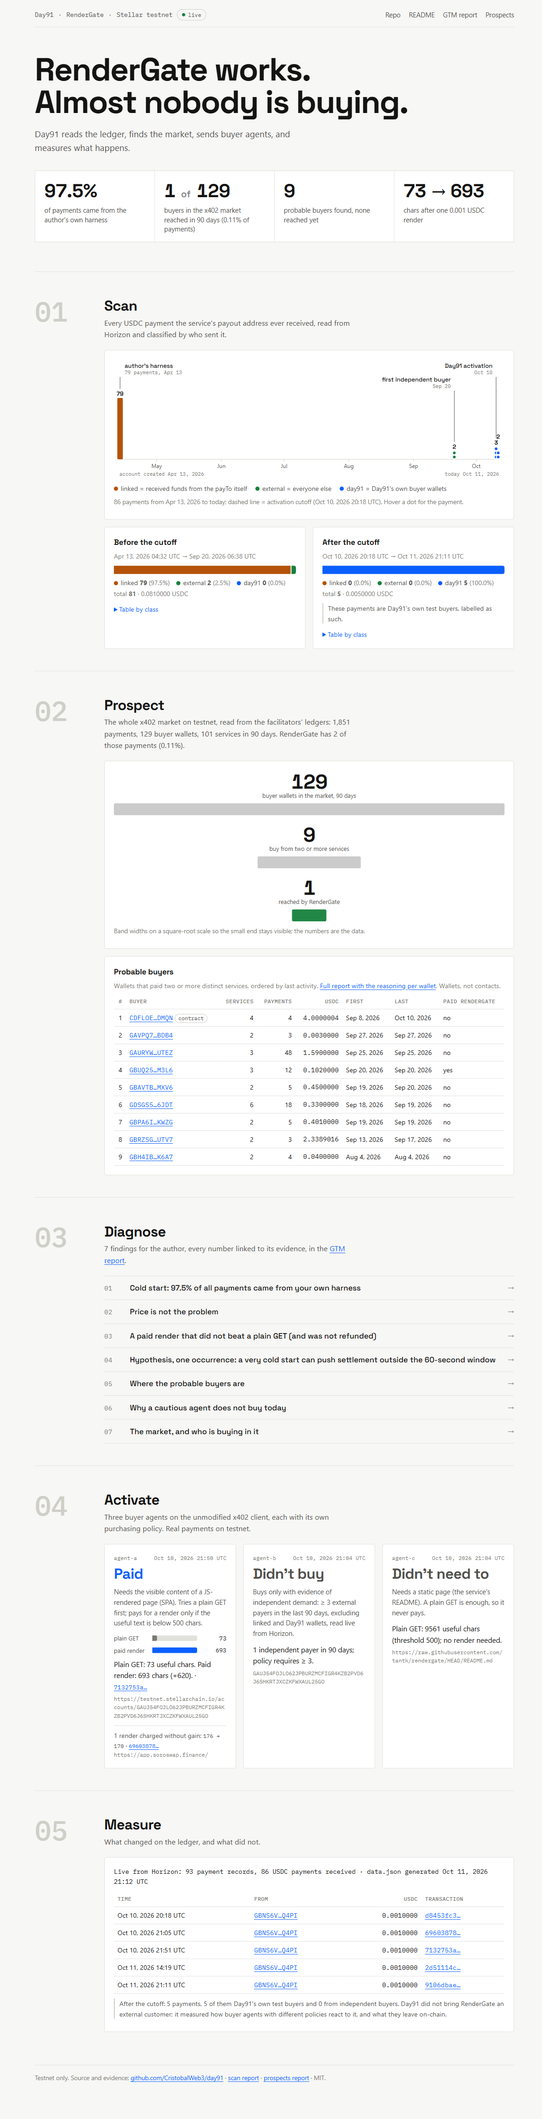
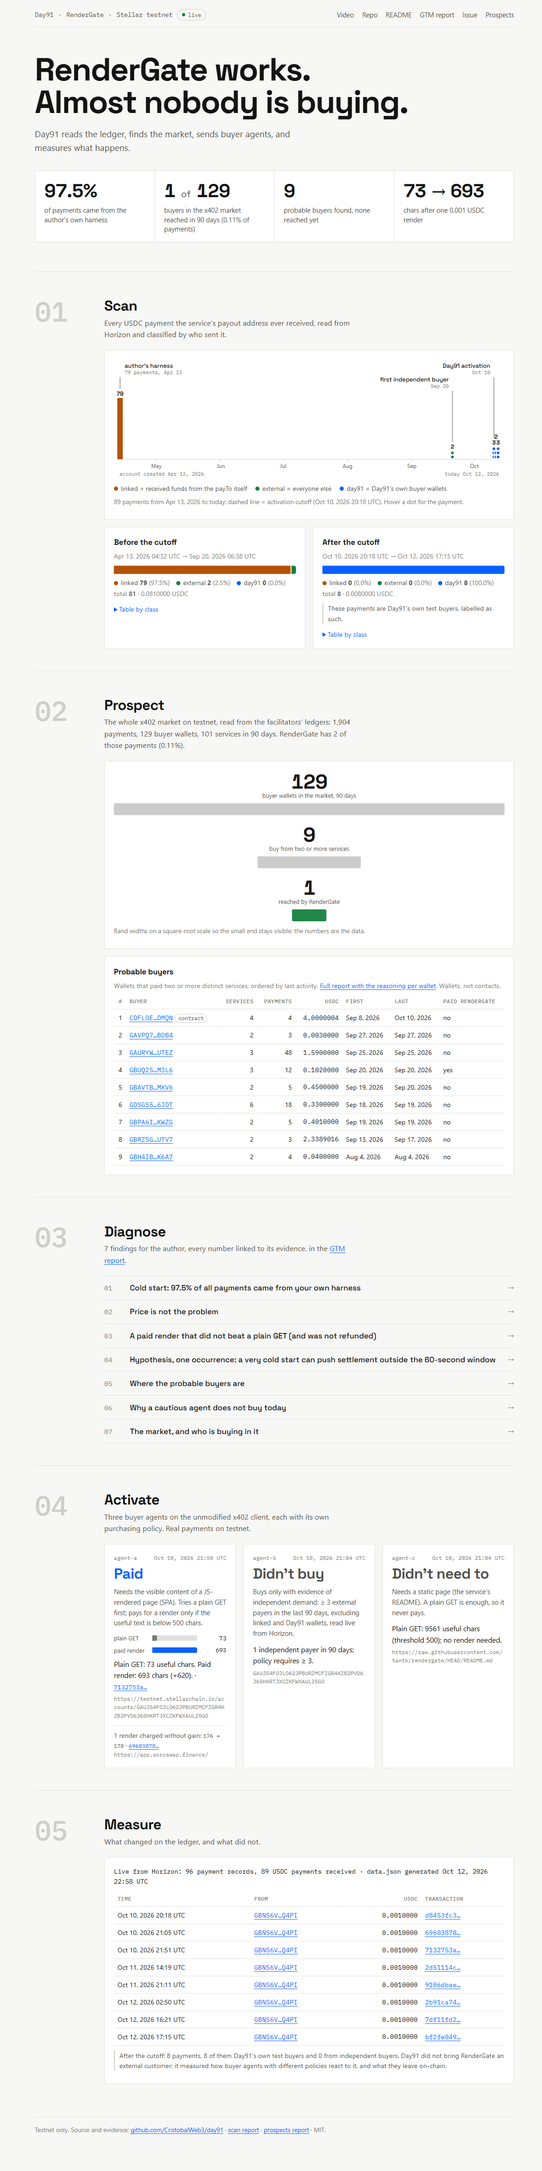
Revisión final: video e issue enlazados, cifras al 12-oct, agente A reproduce la demo por defecto
- README: video pitch e issue tantk/rendergate#2; tabla 8 pagos day91 después del corte;
  Limitations sin número ('all payments after the cutoff are Day91's own'); decisiones
  'earliest' según decisions.jsonl; las dos cuotas con su base (2 of 2,349 · 0.09% / 1 of 224;
  2 of 1,904 · 0.11% / 1 of 129); link directo a data/prospects-<payTo>.md; agent-a con
  Soroswap como argumento; tx de ensayos y video
- agent-a: URL por defecto = testnet.stellarchain.io/accounts/<payTo> (73 → 693)
- funnel-data/index.html: Video e Issue en el menú; data.json y capturas regeneradas
- reporte GTM y submission (1 44x chars, video + issue) con el mercado al 12-oct
- data/: scan y prospects regenerados; paid-calls.jsonl completado desde Horizon con
  las 2 llamadas de agent-a que paidGet no alcanzó a confirmar (hashSource horizon-backfill)
- CLAUDE.md: Estado (8 pagos, mercado 2 349 / 1 904, entregables publicados)

diff --git a/docs/index.html b/docs/index.html
@@ -487,7 +487,7 @@
     const data = await (await fetch("data.json", { cache: "no-store" })).json();
     const payTo = data.service.payTo;
     $("svc-name").textContent = data.service.name;
-    $("nav").innerHTML = [["Repo", data.links.repo], ["README", data.links.readme], ["GTM report", data.links.report], ["Prospects", data.links.prospectsMd]].map(([t, h]) => ext(h, t)).join("");
+    $("nav").innerHTML = [["Video", data.links.video], ["Repo", data.links.repo], ["README", data.links.readme], ["GTM report", data.links.report], ["Issue", data.links.issue], ["Prospects", data.links.prospectsMd]].filter(([, h]) => h).map(([t, h]) => ext(h, t)).join("");
     { const i = data.headline.indexOf(". "); $("headline").innerHTML = i > 0 ? `${esc(data.headline.slice(0, i + 1))}<br>${esc(data.headline.slice(i + 2))}` : esc(data.headline); }
     $("subline").textContent = data.subline;
 

diff --git a/src/buyers/agent-a.ts b/src/buyers/agent-a.ts
@@ -8,7 +8,9 @@ import { paidGet } from "../x402/paid-get.js";
 import { MIN_USEFUL_CHARS, appendDecision, plainGet, renderEndpoint, usefulText } from "./common.js";
 
 const AGENT = "agent-a";
-const target = process.argv[2] ?? "https://app.soroswap.finance/";
+// Por defecto, la página del payTo de RenderGate en un explorador client-rendered (73 → 693 chars en la demo).
+// Pasar https://app.soroswap.finance/ como argumento reproduce el caso de render cobrado sin aporte (176 → 170).
+const target = process.argv[2] ?? "https://testnet.stellarchain.io/accounts/GAUJ54FOJLO62JPBURZMCFIGR4KZB2PVD6J6SHKRTJXCZKFWXAUL25GO";
 const task = "Extract the visible content of a SPA (tokens, pools, navigation) for a downstream task";
 
 async function main() {

diff --git a/scripts/funnel-data.ts b/scripts/funnel-data.ts
@@ -131,6 +131,8 @@ const data = {
     report: `${REPO}/blob/main/reasoning/rendergate-gtm.md`,
     prospectsMd: `${REPO}/blob/main/data/prospects-${payTo}.md`,
     scanMd: `${REPO}/blob/main/data/scan-${payTo}.md`,
+    video: "https://youtu.be/pcEAPKgzaTQ",
+    issue: "https://github.com/tantk/rendergate/issues/2",
   },
   headline: `${activation.service ?? "RenderGate"} works. Almost nobody is buying.`,
   subline: "Day91 reads the ledger, finds the market, sends buyer agents, and measures what happens.",

diff --git a/data/prospects-GAUJ54FOJLO62JPBURZMCFIGR4KZB2PVD6J6SHKRTJXCZKFWXAUL25GO.md b/data/prospects-GAUJ54FOJLO62JPBURZMCFIGR4KZB2PVD6J6SHKRTJXCZKFWXAUL25GO.md
@@ -1,29 +1,29 @@
 # Day91 prospects: RenderGate (payTo)
 
-- payTo: `GAUJ54FOJLO62JPBURZMCFIGR4KZB2PVD6J6SHKRTJXCZKFWXAUL25GO` · window: last 90 days (since 2026-07-13T16:33:17Z) · generated 2026-10-11T16:33:17.006Z
+- payTo: `GAUJ54FOJLO62JPBURZMCFIGR4KZB2PVD6J6SHKRTJXCZKFWXAUL25GO` · window: last 90 days (since 2026-07-14T22:44:33Z) · generated 2026-10-12T22:44:33.349Z
 - Source: /payments of 3 known x402 facilitators on Horizon testnet (a facilitator submits the payment on the buyer's behalf, so its history is the sales ledger of every service that uses it).
-- Removed before counting: 0 zero-amount payments and 4 payments from Day91's own wallets (GBNS6V…Q4PI).
+- Removed before counting: 0 zero-amount payments and 8 payments from Day91's own wallets (GBNS6V…Q4PI).
 - Amounts in USDC, 7 decimals. Buyers are wallets, not people: one operator can run many wallets.
 
 ## Market
 
 |  | payments | buyers | services | USDC | buyers active last 14 d |
 | --- | ---: | ---: | ---: | ---: | ---: |
-| total | 2296 | 224 | 113 | 804.7632514 | 128 |
-| excluding likely test traffic | 1851 | 129 | 101 | 804.7587312 | 35 |
+| total | 2349 | 224 | 113 | 805.2122514 | 80 |
+| excluding likely test traffic | 1904 | 129 | 101 | 805.2077312 | 35 |
 
 Buyers seen on ≥ 2 facilitators: 4.
 
 | facilitator | records read | x402 payments | buyers | services | read time |
 | --- | ---: | ---: | ---: | ---: | ---: |
-| [GC6CSX…YN3K](https://stellar.expert/explorer/testnet/account/GC6CSXBV4C6RL3HEDTW57KXYXSSXKAWKGYDEOSATXM3XNKXSR2VRYN3K) (facilitator x402 (x402.org)) | 2324 | 1953 | 192 | 83 | 3.3 s |
-| [GCGKCI…NDYL](https://stellar.expert/explorer/testnet/account/GCGKCIJE7S22OLQUWURUIL7OFMTVJY77RDZIO6ZJADVFLRUMRW6MNDYL) (facilitator (twin A, 2025-12-22)) | 186 | 172 | 17 | 15 | 1.1 s |
-| [GA6QLQ…O67I](https://stellar.expert/explorer/testnet/account/GA6QLQOQFN36EV6NRIZAGMNA42MFG2XGCX23KYF6VE5DTBXPPS5RO67I) (facilitator (twin B, 2025-12-22)) | 187 | 175 | 21 | 19 | 1.1 s |
+| [GC6CSX…YN3K](https://stellar.expert/explorer/testnet/account/GC6CSXBV4C6RL3HEDTW57KXYXSSXKAWKGYDEOSATXM3XNKXSR2VRYN3K) (facilitator x402 (x402.org)) | 2378 | 2011 | 193 | 84 | 3.1 s |
+| [GCGKCI…NDYL](https://stellar.expert/explorer/testnet/account/GCGKCIJE7S22OLQUWURUIL7OFMTVJY77RDZIO6ZJADVFLRUMRW6MNDYL) (facilitator (twin A, 2025-12-22)) | 186 | 172 | 17 | 15 | 1.0 s |
+| [GA6QLQ…O67I](https://stellar.expert/explorer/testnet/account/GA6QLQOQFN36EV6NRIZAGMNA42MFG2XGCX23KYF6VE5DTBXPPS5RO67I) (facilitator (twin B, 2025-12-22)) | 186 | 174 | 20 | 18 | 1.0 s |
 
 ## Share of this payTo
 
-- Of the whole window: **2 of 2296 payments (0.09%)** and **1 of 224 buyers (0.45%)**, Day91's wallets excluded.
-- Outside likely test traffic: **2 of 1851 payments (0.11%)** and **1 of 129 buyers (0.78%)**.
+- Of the whole window: **2 of 2349 payments (0.09%)** and **1 of 224 buyers (0.45%)**, Day91's wallets excluded.
+- Outside likely test traffic: **2 of 1904 payments (0.11%)** and **1 of 129 buyers (0.78%)**.
 - Buyers of this payTo in the window: [GBUQ25…M3L6](https://stellar.expert/explorer/testnet/account/GBUQ25LH4BARXR4RAJZVA7QYVFTIRZD63YXYVAETETYGKMNZF5PKM3L6).
 
 ## Likely test traffic
@@ -57,7 +57,7 @@ Buyers seen on ≥ 2 facilitators: 4.
 | [GDEIIJ…TZ7Z](https://stellar.expert/explorer/testnet/account/GDEIIJVYMY4DQJI5HFCM4ES52GWT6SDRBD3SPXUEPN3D3D7ZUATXTZ7Z) | 4 | 12 | 0.1200000 | 0.0100000 |
 | [GBNDGY…I6V6](https://stellar.expert/explorer/testnet/account/GBNDGYUJS5TB24JEBHJDNNAKFQNKJ7T62VQWZFVH72JGVUCHOOA4I6V6) | 3 | 16 | 0.1600000 | 0.0100000 |
 | [GD67Z4…N6WS](https://stellar.expert/explorer/testnet/account/GD67Z44A7J7VG5MGJ3FRC65WI2OQOQWXP5ZVO63MWYEMHQU7G3OON6WS) | 3 | 9 | 7.1000000 | 0.7888888 |
-| [GAWSYB…L5V7](https://stellar.expert/explorer/testnet/account/GAWSYBSG7GQYH77SRM7MPFMWMPUBCFBLQRYCDAEGELP6IFIUGSNYL5V7) | 2 | 303 | 2.4720000 | 0.0081584 |
+| [GAWSYB…L5V7](https://stellar.expert/explorer/testnet/account/GAWSYBSG7GQYH77SRM7MPFMWMPUBCFBLQRYCDAEGELP6IFIUGSNYL5V7) | 2 | 353 | 2.8820000 | 0.0081643 |
 | [GDXKBO…GWQU](https://stellar.expert/explorer/testnet/account/GDXKBOCCIUWIJ4O355O3YUSB46G5TGCOJ2LSADU7KB67EBT23KMAGWQU) | 2 | 9 | 0.0900000 | 0.0100000 |
 
 ## Prospects
@@ -66,15 +66,15 @@ Buyers that paid **≥ 2 distinct services** with a price > 0 in the window: 9 (
 
 | # | buyer | services | payments | USDC | first | last | facilitator(s) | paid this payTo | why |
 | ---: | --- | ---: | ---: | ---: | --- | --- | --- | --- | --- |
-| 1 | [CDFLOE…DMQN](https://stellar.expert/explorer/testnet/contract/CDFLOE4HGKNV3JJQGIS3Y7BT2K2DTT4SBF2NKARMBVB4RBJZ5YJLDMQN) | 4 | 4 | 4.0000004 | 2026-09-08 | 2026-10-10 | GCGKCI…NDYL, GA6QLQ…O67I | no | 4 services, 4 payments, 4.0000004 USDC over 32 days; last active 0 days ago; has not tried this service; contract address, not a wallet; pays exactly 1.0000001 USDC to every service; may be test infrastructure rather than a customer |
-| 2 | [GAVPQ7…BDB4](https://stellar.expert/explorer/testnet/account/GAVPQ7VRQK5TK5ZJCFPYZHWOOSSDYVDPAH7LW4ME4PC7VLMZ4JUGBDB4) | 2 | 3 | 0.0030000 | 2026-09-27 | 2026-09-27 | GC6CSX…YN3K | no | 2 services, 3 payments, 0.0030000 USDC over 1 day; last active 13 days ago; has not tried this service; pays exactly 0.0010000 USDC to every service |
-| 3 | [GAURYW…UTEZ](https://stellar.expert/explorer/testnet/account/GAURYWKSSNA7IWU4S6VYHIU6TFOEUGO72BULFXNBKJ2IGXHR22ANUTEZ) | 3 | 48 | 1.5900000 | 2026-09-25 | 2026-09-25 | GC6CSX…YN3K | no | 3 services, 48 payments, 1.5900000 USDC over 1 day; last active 16 days ago; has not tried this service |
-| 4 | [GBUQ25…M3L6](https://stellar.expert/explorer/testnet/account/GBUQ25LH4BARXR4RAJZVA7QYVFTIRZD63YXYVAETETYGKMNZF5PKM3L6) | 3 | 12 | 0.1020000 | 2026-09-20 | 2026-09-20 | GC6CSX…YN3K, GCGKCI…NDYL, GA6QLQ…O67I | yes | 3 services, 12 payments, 0.1020000 USDC over 1 day; last active 21 days ago; already tried this service |
-| 5 | [GBAVTB…MXV6](https://stellar.expert/explorer/testnet/account/GBAVTBA7T7FLNBPGNJXUBMBZV4J4N7L3JCKMWNVFPMK267C46FLJMXV6) | 2 | 5 | 0.4500000 | 2026-09-19 | 2026-09-20 | GC6CSX…YN3K | no | 2 services, 5 payments, 0.4500000 USDC over 1 day; last active 21 days ago; has not tried this service |
-| 6 | [GDSGS5…6JDT](https://stellar.expert/explorer/testnet/account/GDSGS53IUWOSFIW7EWW5NJ4WJLUNVRSH3MYQ3YFGWEJI7VZCVE3C6JDT) | 6 | 18 | 0.3300000 | 2026-09-18 | 2026-09-19 | GC6CSX…YN3K | no | 6 services, 18 payments, 0.3300000 USDC over 1 day; last active 21 days ago; has not tried this service |
-| 7 | [GBPA6I…KWZG](https://stellar.expert/explorer/testnet/account/GBPA6I6PQAYXADRROHMGYGPRY7NVHXL5Q7QT3L6SOAUSIBWV27AJKWZG) | 2 | 5 | 0.4010000 | 2026-09-19 | 2026-09-19 | GC6CSX…YN3K | no | 2 services, 5 payments, 0.4010000 USDC over 1 day; last active 21 days ago; has not tried this service |
-| 8 | [GBRZSG…UTV7](https://stellar.expert/explorer/testnet/account/GBRZSG7K6ZXJRCMYM2O2HO2DKR7RO2ACZ5FARBMQZBB4YZMDFDXFUTV7) | 2 | 3 | 2.3389016 | 2026-09-13 | 2026-09-17 | GC6CSX…YN3K | no | 2 services, 3 payments, 2.3389016 USDC over 4 days; last active 23 days ago; has not tried this service |
-| 9 | [GBH4IB…K6A7](https://stellar.expert/explorer/testnet/account/GBH4IBWTCU3ARMY33PILVW6SMBMKYWSUKONNLJN5IZGXBAQFVJWJK6A7) | 2 | 4 | 0.0400000 | 2026-08-04 | 2026-08-04 | GC6CSX…YN3K | no | 2 services, 4 payments, 0.0400000 USDC over 1 day; last active 68 days ago; has not tried this service; pays exactly 0.0100000 USDC to every service |
+| 1 | [CDFLOE…DMQN](https://stellar.expert/explorer/testnet/contract/CDFLOE4HGKNV3JJQGIS3Y7BT2K2DTT4SBF2NKARMBVB4RBJZ5YJLDMQN) | 4 | 4 | 4.0000004 | 2026-09-08 | 2026-10-10 | GCGKCI…NDYL, GA6QLQ…O67I | no | 4 services, 4 payments, 4.0000004 USDC over 32 days; last active 2 days ago; has not tried this service; contract address, not a wallet; pays exactly 1.0000001 USDC to every service; may be test infrastructure rather than a customer |
+| 2 | [GAVPQ7…BDB4](https://stellar.expert/explorer/testnet/account/GAVPQ7VRQK5TK5ZJCFPYZHWOOSSDYVDPAH7LW4ME4PC7VLMZ4JUGBDB4) | 2 | 3 | 0.0030000 | 2026-09-27 | 2026-09-27 | GC6CSX…YN3K | no | 2 services, 3 payments, 0.0030000 USDC over 1 day; last active 15 days ago; has not tried this service; pays exactly 0.0010000 USDC to every service |
+| 3 | [GAURYW…UTEZ](https://stellar.expert/explorer/testnet/account/GAURYWKSSNA7IWU4S6VYHIU6TFOEUGO72BULFXNBKJ2IGXHR22ANUTEZ) | 3 | 48 | 1.5900000 | 2026-09-25 | 2026-09-25 | GC6CSX…YN3K | no | 3 services, 48 payments, 1.5900000 USDC over 1 day; last active 17 days ago; has not tried this service |
+| 4 | [GBUQ25…M3L6](https://stellar.expert/explorer/testnet/account/GBUQ25LH4BARXR4RAJZVA7QYVFTIRZD63YXYVAETETYGKMNZF5PKM3L6) | 3 | 12 | 0.1020000 | 2026-09-20 | 2026-09-20 | GC6CSX…YN3K, GCGKCI…NDYL, GA6QLQ…O67I | yes | 3 services, 12 payments, 0.1020000 USDC over 1 day; last active 22 days ago; already tried this service |
+| 5 | [GBAVTB…MXV6](https://stellar.expert/explorer/testnet/account/GBAVTBA7T7FLNBPGNJXUBMBZV4J4N7L3JCKMWNVFPMK267C46FLJMXV6) | 2 | 5 | 0.4500000 | 2026-09-19 | 2026-09-20 | GC6CSX…YN3K | no | 2 services, 5 payments, 0.4500000 USDC over 1 day; last active 22 days ago; has not tried this service |
+| 6 | [GDSGS5…6JDT](https://stellar.expert/explorer/testnet/account/GDSGS53IUWOSFIW7EWW5NJ4WJLUNVRSH3MYQ3YFGWEJI7VZCVE3C6JDT) | 6 | 18 | 0.3300000 | 2026-09-18 | 2026-09-19 | GC6CSX…YN3K | no | 6 services, 18 payments, 0.3300000 USDC over 1 day; last active 23 days ago; has not tried this service |
+| 7 | [GBPA6I…KWZG](https://stellar.expert/explorer/testnet/account/GBPA6I6PQAYXADRROHMGYGPRY7NVHXL5Q7QT3L6SOAUSIBWV27AJKWZG) | 2 | 5 | 0.4010000 | 2026-09-19 | 2026-09-19 | GC6CSX…YN3K | no | 2 services, 5 payments, 0.4010000 USDC over 1 day; last active 23 days ago; has not tried this service |
+| 8 | [GBRZSG…UTV7](https://stellar.expert/explorer/testnet/account/GBRZSG7K6ZXJRCMYM2O2HO2DKR7RO2ACZ5FARBMQZBB4YZMDFDXFUTV7) | 2 | 3 | 2.3389016 | 2026-09-13 | 2026-09-17 | GC6CSX…YN3K | no | 2 services, 3 payments, 2.3389016 USDC over 4 days; last active 25 days ago; has not tried this service |
+| 9 | [GBH4IB…K6A7](https://stellar.expert/explorer/testnet/account/GBH4IBWTCU3ARMY33PILVW6SMBMKYWSUKONNLJN5IZGXBAQFVJWJK6A7) | 2 | 4 | 0.0400000 | 2026-08-04 | 2026-08-04 | GC6CSX…YN3K | no | 2 services, 4 payments, 0.0400000 USDC over 1 day; last active 69 days ago; has not tried this service; pays exactly 0.0100000 USDC to every service |
 
 - Note on #1 [CDFLOE…DMQN](https://stellar.expert/explorer/testnet/contract/CDFLOE4HGKNV3JJQGIS3Y7BT2K2DTT4SBF2NKARMBVB4RBJZ5YJLDMQN): contract address, not a wallet; pays exactly 1.0000001 USDC to every service; may be test infrastructure rather than a customer (via GCGKCI…NDYL and GA6QLQ…O67I).
 

diff --git a/README.md b/README.md
@@ -8,11 +8,13 @@ the result on-chain, before and after.
 
 Built for the *Find Your Way* hackathon (Stellar Passport, October 2026). Everything runs on **Stellar testnet** only.
 
+- Video pitch: **https://youtu.be/pcEAPKgzaTQ**
 - Funnel (live from Horizon): **https://cristobalweb3.github.io/day91/**
 
   ![Day91 funnel: key figures, payments before and after the cutoff by payer class, the x402 market and the agents' decisions](docs/screenshots/funnel-desktop.png)
 - Target service: [RenderGate](https://github.com/tantk/rendergate), a pay-per-render headless browser behind x402 (3rd place, Stellar Hacks: Agents)
 - Report for the RenderGate author: [`reasoning/rendergate-gtm.md`](reasoning/rendergate-gtm.md)
+- Report posted to the author: https://github.com/tantk/rendergate/issues/2
 
 ## The problem
 
@@ -43,24 +45,27 @@ independent buyers, and a way for later buyers to see that those first ones exis
    payments Day91 made (each linked to stellar.expert), and the agents' decisions. It then listens to Horizon's event stream (polling every
    10 s if the stream fails) and redraws in place when a new payment lands, with a short notice.
 
-## Results against RenderGate (testnet, 2026-10-10)
+## Results against RenderGate (testnet; cutoff 2026-10-10, figures as of 2026-10-12)
 
 | | payments | payers | USDC |
 |---|---:|---:|---:|
 | Before the cutoff: linked (author's harness) | 79 | 1 | 0.0790000 |
 | Before the cutoff: external | 2 | 1 | 0.0020000 |
-| After the cutoff: day91 | 5 | 1 | 0.0050000 |
+| After the cutoff: day91 | 8 | 1 | 0.0080000 |
 
 - **97.5%** of historical payments came from a wallet created 5 seconds after the payTo by the same friendbot and later refunded by it.
   One independent buyer in 180 days; 20 days without an external sale at the cutoff.
 - That buyer spent 0.102 USDC on x402 calls that day and only **2%** of it on RenderGate, so price is not the blocker.
-- Agent A paid twice: `app.soroswap.finance` (plain GET 176 useful chars → render 170, charged without gain) and
-  `testnet.stellarchain.io/accounts/<payTo>` (73 → 693). Agent B found 1 independent payer and did not buy. Agent C never needed to pay.
+- Agent A pays when a plain GET is not enough: `app.soroswap.finance` (plain GET 176 useful chars → render 170, charged without gain) and
+  `testnet.stellarchain.io/accounts/<payTo>` (73 → 693; repeated three more times during rehearsals and the video, 692–693 chars each).
+  Agent B found 1 independent payer and did not buy. Agent C never needed to pay.
 - The operator that created the one external buyer onboarded 40 wallets in five days; 5 of them pay for x402 services, 1 paid RenderGate.
-- **The market (last 90 days, three facilitators, Day91's payments excluded): 2,296 x402 payments, 224 buyer wallets, 113 services,
-  804.76 USDC; without likely test traffic, 1,851 payments, 129 buyer wallets, 101 services.** RenderGate is **2 of 2,296 payments (0.09%)
-  and 1 of 224 buyers**. Nine wallets paid two or more distinct services; they are the ranked prospects in
-  [`data/prospects-<payTo>.md`](data/). Reading the three facilitators takes about 5 seconds.
+- **The market (last 90 days to 2026-10-12, three facilitators, Day91's payments excluded): 2,349 x402 payments, 224 buyer wallets,
+  113 services, 805.21 USDC; without likely test traffic, 1,904 payments, 129 buyer wallets, 101 services.** RenderGate's share:
+  **2 of 2,349 payments (0.09%), 1 of 224 buyers; excluding likely test traffic, 2 of 1,904 (0.11%), 1 of 129 buyers.** Nine wallets paid
+  two or more distinct services; they are the ranked prospects in
+  [`data/prospects-GAUJ54….md`](data/prospects-GAUJ54FOJLO62JPBURZMCFIGR4KZB2PVD6J6SHKRTJXCZKFWXAUL25GO.md). Reading the three
+  facilitators takes about 5 seconds.
 - One hypothesis, one occurrence: the first paid call, after ~20 days without payments to the service, returned 402 after 68 s without
   charging, consistent with settlement after a slow render exceeding the 60-second authorization window. A deliberate retry after ~16.5 h
   idle worked in 10.7 s. Not reproduced; probably a sleeping Space rather than the browser.
@@ -69,7 +74,10 @@ Transactions: [d8453fc3…](https://stellar.expert/explorer/testnet/tx/d8453fc3e
 (cutoff), [69603878…](https://stellar.expert/explorer/testnet/tx/69603878693153fca79d0ffcf46356370087dcf9ee3dfb5f9c488413bc85c886),
 [7132753a…](https://stellar.expert/explorer/testnet/tx/7132753a567a78e7b832e4c0e88c44b0b40f6d4e6a0c333922da5f526a318255),
 [2d51114c…](https://stellar.expert/explorer/testnet/tx/2d51114c066e26cb513d09be21c236906fc0aa18d30cfb0e2faa1fe14b800eb4) (cold-start check),
-[9106dbae…](https://stellar.expert/explorer/testnet/tx/9106dbae6e0440245a33c598e5e599d356914e894142ad2d80fd73f63f78cbbf) (live-mode check of the funnel).
+[9106dbae…](https://stellar.expert/explorer/testnet/tx/9106dbae6e0440245a33c598e5e599d356914e894142ad2d80fd73f63f78cbbf) (live-mode check of the funnel),
+[2b91ca74…](https://stellar.expert/explorer/testnet/tx/2b91ca74de01d7515428be0ea601d04481cf14c117e9331fdae315ac6dfc522f),
+[7df11fd2…](https://stellar.expert/explorer/testnet/tx/7df11fd2e84447b3189519dc4981f7405b66a9fe93000cb477091bc8ad97735c) and
+[bf2fe049…](https://stellar.expert/explorer/testnet/tx/bf2fe04942844f20b06bc96007ac52d21dbd6373b4f92773bfe34aade29e9539) (agent A, rehearsals and video).
 
 ## How to run
 
@@ -83,7 +91,8 @@ npm run setup-buyer          # keypair → .env, friendbot, USDC trustline; regi
 npm run buy-render           # one paid render against RenderGate, verified in Horizon
 npm run day91 -- scan GAUJ54FOJLO62JPBURZMCFIGR4KZB2PVD6J6SHKRTJXCZKFWXAUL25GO        # → data/scan-<payTo>.{json,md}
 npm run day91 -- prospects GAUJ54FOJLO62JPBURZMCFIGR4KZB2PVD6J6SHKRTJXCZKFWXAUL25GO   # → data/prospects-<payTo>.{json,md}
-npm run agent-a              # pays only if a plain GET is not enough (real payment)
+npm run agent-a              # pays only if a plain GET is not enough (real payment); default target: the payTo's page on testnet.stellarchain.io (73 → 693)
+npm run agent-a -- https://app.soroswap.finance/   # the charged-without-gain case (176 → 170)
 npm run agent-b              # buys only with ≥ 3 independent payers in 90 days
 npm run agent-c              # static page, never pays
 npm run funnel-data          # → docs/data.json for the funnel page
@@ -98,16 +107,18 @@ Everything in `data/` is committed as evidence: raw 402 challenge, paid and fail
 ## Limitations, honestly
 
 - **Testnet only.** No mainnet, no real money. The service is someone else's live deployment, so traffic was kept to a handful of paid calls.
-- **The three payments after the cutoff are Day91's own** and are labelled `day91` everywhere. We did not bring RenderGate an external customer;
-  we measured how buyer agents with different policies react to it, and what they leave on-chain.
+- **All payments after the cutoff are Day91's own** (agent runs, checks, rehearsals and the video recording) and are labelled `day91`
+  everywhere. We did not bring RenderGate an external customer; we measured how buyer agents with different policies react to it, and what
+  they leave on-chain.
 - **"Linked" includes refunds.** A payer is *linked* if it ever received funds from the payTo, refunds included. That is the conservative reading
   and it correctly tags the author's harness, but it would also tag a real customer who got a failed render refunded. The report shows the
   evidence (transaction, amount, memo) for every link so a reader can judge.
 - **The diagnose step is a saved output, not code.** [`reasoning/rendergate-gtm.md`](reasoning/rendergate-gtm.md) was written with an LLM from
   the files in `data/` and reviewed by hand. There are no LLM calls anywhere in the code.
-- **Two of the four agent decisions were recorded before some fields existed** (`renderGainChars`, `renderSample`). The funnel derives what it
-  can from the numbers that were saved; the log itself is append-only and was never rewritten, except one `reason` string corrected by hand
-  right after the first run, which is marked with a `note` field.
+- **The earliest agent decisions were recorded before some fields existed** (`renderGainChars`, `renderSample`; the first agent A run,
+  Soroswap, lacks them). The funnel derives what it can from the numbers that were saved; the log is append-only and was never rewritten,
+  except one `reason` string corrected by hand right after the first run, which is marked with a `note` field. Later runs during rehearsals
+  and the video recording are in the log too.
 - The cold-start settlement hypothesis is based on a single failed call.
 - **Prospects are wallets, not contacts.** `day91 prospects` ranks wallets by on-chain behaviour; it does not know who operates them.
   Reaching out is manual work and stays on the roadmap. The test-traffic filter is a single rule (service average price ≤ 0.0001 USDC): it

diff --git a/CLAUDE.md b/CLAUDE.md
@@ -132,16 +132,16 @@ day91/
 
 ## Estado (11-oct-2026, bloque 5 + prospección: solo falta el video)
 
-- **On-chain:** wallet `GBNS6VZI…Q4PI` (~19.995 USDC). 5 pagos de Day91 a RenderGate (0.001 c/u): `d8453fc3…` (10-oct 20:18:37Z, **marca de corte**, `data/activation.json`),
-  `69603878…` (A, Soroswap, 176 → 170, cobrado sin aportar), `7132753a…` (A, stellarchain, 73 → 693; verificado con Playwright local), `2d51114c…` (11-oct, medición en frío), `9106dbae…` (11-oct, prueba del modo en vivo).
+- **On-chain:** wallet `GBNS6VZI…Q4PI` (~19.992 USDC). 8 pagos de Day91 a RenderGate (0.001 c/u): `d8453fc3…` (10-oct 20:18:37Z, **marca de corte**), `69603878…` (A, Soroswap, 176 → 170,
+  cobrado sin aportar), `7132753a…` (A, stellarchain, 73 → 693), `2d51114c…` (medición en frío), `9106dbae…` (prueba del modo en vivo), `2b91ca74…`, `7df11fd2…`, `bf2fe049…` (A, ensayos y video, 12-oct).
 - **Agentes (`data/decisions.jsonl`, 4 líneas, no se edita más):** C no paga; B no compra (1 pagador externo en 90 días, política ≥ 3); A paga 2 veces. Salida en inglés; `DAY91_DRY_RUN=1` no graba.
-- **Prospección (`day91 prospects <payTo>`):** 90 días de los 3 facilitators de `src/config.ts` (~5 s). Sin nuestras wallets: 2 296 pagos, 224 compradores, 113 servicios, 804.76 USDC;
-  sin tráfico de prueba probable (precio medio ≤ 0.0001, 12 servicios, incluye el bloque 7×60×11): 1 851 / 129 / 101. RenderGate 2 pagos / 1 comprador (0,09 % / 0,45 % del total; 0,11 % / 0,78 % sin tráfico de prueba; citar siempre el par con la misma base); 9 prospectos →
-  `data/prospects-<payTo>.{json,md}`; el 1.º es un contrato que paga exactamente 1 USDC a 4 servicios vía los gemelos (posible infraestructura de prueba, dicho en el reporte). Bridge a Base: attestation emitida (27 → 6), nada acuñado.
+- **Prospección (`day91 prospects <payTo>`, ventana móvil de 90 días, regenerada 12-oct):** sin nuestras wallets: 2 349 pagos, 224 compradores, 113 servicios, 805.21 USDC; sin tráfico de
+  prueba probable (precio medio ≤ 0.0001, 12 servicios, incluye el bloque 7×60×11): 1 904 / 129 / 101. RenderGate 2 pagos / 1 comprador (0,09 % / 0,45 % del total; 0,11 % / 0,78 % sin tráfico de prueba;
+  citar siempre el par con la misma base). 9 prospectos → `data/prospects-<payTo>.{json,md}`; el 1.º es un contrato que paga exactamente 1 USDC a 4 servicios (posible infraestructura de prueba). Bridge a Base: attestation emitida, nada acuñado.
 - **Funnel (`docs/`, https://cristobalweb3.github.io/day91/):** titular + 4 cifras animadas y 5 secciones: 01 Scan (línea de tiempo SVG anotada, barras) · 02 Prospect (embudo 129 → 9 → 1, tabla)
   · 03 Diagnose (hallazgos del .md) · 04 Activate · 05 Measure. Horizon en vivo o snapshot (> 10 s); **modo en vivo**: SSE de Horizon (sondeo cada 10 s si falla), redibuja en sitio con pulso, fila resaltada y aviso 8 s (probado con un pago real). Capturas en `docs/screenshots/`.
 - **Documentos:** `README.md` (5 pasos, limitaciones, roadmap), `reasoning/rendergate-gtm.md` (7 hallazgos + 6 acciones; redactado por LLM; issue manual en tantk/rendergate), `docs/submission.md`.
 - **Ejecutar:** `setup-buyer` · `buy-render -- [url] [agente]` · `day91 -- scan|prospects <payTo>` · `agent-a|b|c` · `funnel-data` · `typecheck`.
 - **Decisiones fuera del plan:** `src/x402/paid-get.ts` compartido. stellar-sdk ^16. Hash desde `payment-response` o Horizon por `from`. Montos BigInt, 7 decimales. "x402" = enviado por un facilitator. LICENSE MIT a nombre de "CristobalWeb3".
 - **Hipótesis (una ocurrencia, no reproducida):** 1.er intento 402 tras 68 s (`simulation_failed`, sin cobro) tras ~20 días sin pagos; tras ~16,5 h sin uso funcionó en 10,7 s. Probablemente Space dormido.
-- **Pendiente:** video ≤ 3 min (guion: scan → prospects → diagnóstico → agentes → funnel), publicar el issue en RenderGate, completar el formulario con `docs/submission.md`.
+- **Entregables publicados (12-oct):** video https://youtu.be/pcEAPKgzaTQ · issue en RenderGate https://github.com/tantk/rendergate/issues/2 (abierto 16:11 UTC). **Pendiente:** formulario con `docs/submission.md`.

diff --git a/data/scan-GAUJ54FOJLO62JPBURZMCFIGR4KZB2PVD6J6SHKRTJXCZKFWXAUL25GO.md b/data/scan-GAUJ54FOJLO62JPBURZMCFIGR4KZB2PVD6J6SHKRTJXCZKFWXAUL25GO.md
@@ -1,9 +1,9 @@
 # Day91 scan: RenderGate (payTo)
 
 - payTo: `GAUJ54FOJLO62JPBURZMCFIGR4KZB2PVD6J6SHKRTJXCZKFWXAUL25GO` (red: stellar:testnet)
-- Generado: 2026-10-11T21:12:41.130Z
+- Generado: 2026-10-12T22:44:31.743Z
 - Marca de corte de la activación: **2026-10-10T20:18:37Z** (primer pago de Day91: [d8453fc3…](https://stellar.expert/explorer/testnet/tx/d8453fc3e3ecf8234606fdb06621629996b98f304fceb9dd5a9b0d9e239945da)). Fuente: `data/activation.json`.
-- Cuenta creada 2026-04-13T04:11:30Z por [GAIH3U…ZNSR](https://stellar.expert/explorer/testnet/account/GAIH3ULLFQ4DGSECF2AR555KZ4KNDGEKN4AFI4SU2M7B43MGK3QJZNSR) (friendbot (testnet)). Saldo USDC actual: 0.0800000.
+- Cuenta creada 2026-04-13T04:11:30Z por [GAIH3U…ZNSR](https://stellar.expert/explorer/testnet/account/GAIH3ULLFQ4DGSECF2AR555KZ4KNDGEKN4AFI4SU2M7B43MGK3QJZNSR) (friendbot (testnet)). Saldo USDC actual: 0.0830000.
 - Clasificación de pagadores: **vinculado** = recibió fondos del propio payTo; **day91** = está en `data/day91-wallets.json`; **externo** = el resto.
 - Todos los montos en USDC con 7 decimales.
 
@@ -53,13 +53,13 @@
 | clase | pagos | pagadores | monto USDC | % de pagos |
 | --- | ---: | ---: | ---: | ---: |
 | vinculado | 0 | 0 | 0.0000000 | 0.0% |
-| day91 | 5 | 1 | 0.0050000 | 100.0% |
+| day91 | 8 | 1 | 0.0080000 | 100.0% |
 | externo | 0 | 0 | 0.0000000 | 0.0% |
-| **total** | 5 | 1 | 0.0050000 | 100% |
+| **total** | 8 | 1 | 0.0080000 | 100% |
 
 | pagador | clase | pagos | monto USDC | primero | último |
 | --- | --- | ---: | ---: | --- | --- |
-| [GBNS6V…Q4PI](https://stellar.expert/explorer/testnet/account/GBNS6VZIEZEFIXJXIOL2PA4K3WDCF3R2O5IVHYRIJHSERZMJU764Q4PI) | day91 | 5 | 0.0050000 | 2026-10-10T20:18:37Z | 2026-10-11T21:11:12Z |
+| [GBNS6V…Q4PI](https://stellar.expert/explorer/testnet/account/GBNS6VZIEZEFIXJXIOL2PA4K3WDCF3R2O5IVHYRIJHSERZMJU764Q4PI) | day91 | 8 | 0.0080000 | 2026-10-10T20:18:37Z | 2026-10-12T17:15:27Z |
 
 ## Compradores externos
 
@@ -108,8 +108,8 @@ Otras salidas USDC de la cohorte (no x402):
 
 ## Sondeo del servicio
 
-- Ficha `GET https://tantk-rendergate.hf.space/` → 200 en 652 ms: `{"service":"RenderGate","description":"Pay-per-render headless browser API on Stellar x402","price":"$0.001","network":"stellar:testnet","usage":"GET /render?url=<encoded_url>"}`
-- 402 `GET https://tantk-rendergate.hf.space/render?url=https%3A%2F%2Fexample.com` → 402 en 518 ms (x402 v2).
+- Ficha `GET https://tantk-rendergate.hf.space/` → 200 en 819 ms: `{"service":"RenderGate","description":"Pay-per-render headless browser API on Stellar x402","price":"$0.001","network":"stellar:testnet","usage":"GET /render?url=<encoded_url>"}`
+- 402 `GET https://tantk-rendergate.hf.space/render?url=https%3A%2F%2Fexample.com` → 402 en 522 ms (x402 v2).
 
 | scheme | red | asset | payTo | amount (raw) | amount USDC | maxTimeoutSeconds | extra |
 | --- | --- | --- | --- | ---: | ---: | ---: | --- |

diff --git a/reasoning/rendergate-gtm.md b/reasoning/rendergate-gtm.md
@@ -7,7 +7,7 @@
 
 Hi, and congrats on the 3rd place at Stellar Hacks: Agents. We used RenderGate as the first target for Day91, a small tool that
 reads a service's payTo history on Horizon, works out why it isn't selling, and sends a few real buyer agents at it. We paid for
-five renders (0.005 USDC total, testnet) and read everything else from the public ledger. Here is what we found. Take what is
+a handful of renders (0.008 USDC in total on testnet, rehearsals for a demo video included) and read everything else from the public ledger. Here is what we found. Take what is
 useful, ignore the rest.
 
 Addresses used below: payTo `GAUJ54…25GO`, your harness wallet `GDMJ5B…IQR3`, the one independent buyer `GBUQ25…M3L6`,
@@ -117,11 +117,11 @@ Evidence: [decisions.jsonl](https://github.com/CristobalWeb3/day91/blob/main/dat
 We read the last 90 days of the three x402 facilitators we know on testnet (a facilitator submits the payment on the buyer's behalf, so its
 history is the sales ledger of every service that uses it). After dropping our own four payments:
 
-- **2,296 x402 payments, 224 buyer wallets, 113 services, 804.76 USDC** in total. Removing likely test traffic (12 services whose average
-  price is ≤ 0.0001 USDC, among them a block of seven that each took exactly 60 payments from 11 wallets at 0.00001 USDC between 2026-09-28
-  and 10-09): **1,851 payments, 129 buyer wallets, 101 services.** 35 of those 129 wallets paid something in the last 14 days; only 4 used more
-  than one facilitator.
-- **RenderGate: 2 of 2,296 payments (0.09%) and 1 of 224 buyers (0.45%).** Outside likely test traffic: 2 of 1,851 payments (0.11%) and
+- **2,349 x402 payments, 224 buyer wallets, 113 services, 805.21 USDC** in total (window ending 2026-10-12). Removing likely test traffic
+  (12 services whose average price is ≤ 0.0001 USDC, among them a block of seven that each took exactly 60 payments from 11 wallets at
+  0.00001 USDC between 2026-09-28 and 10-09): **1,904 payments, 129 buyer wallets, 101 services.** 35 of those 129 wallets paid something in
+  the last 14 days; only 4 used more than one facilitator.
+- **RenderGate: 2 of 2,349 payments (0.09%) and 1 of 224 buyers (0.45%).** Outside likely test traffic: 2 of 1,904 payments (0.11%) and
   1 of 129 buyers (0.78%).
 - The market is lumpy. `GDABGS…6S2P` has the most buyers (15 wallets, 37 payments at ~0.30 USDC). `CAT76P…KSKL` is a contract taking 6 payments
   averaging 35.8 USDC.

diff --git a/docs/submission.md b/docs/submission.md
@@ -14,11 +14,12 @@ Only ~7.6% of ~962 Stellar hackathon submissions show commits 90 days after the 
 
 Scan: `day91 scan <payTo>` pulls the payout address's full payment history from Horizon, classifies payers as linked (funded by the payTo), day91 (ours) or external, and profiles each external buyer and its operator's cohort. Prospect: `day91 prospects` reads the x402 facilitators' ledgers and ranks wallets that buy from several services. Diagnose: a report for the author, every number linked to evidence. Activate: three buyer agents on the unmodified @x402 client: A pays only if a plain GET is not enough; B buys only with ≥ 3 independent payers in 90 days; C never needs to pay. Measure: a static page reads Horizon live and shows before/after by payer class.
 
-Findings on RenderGate: 97.5% of historical payments came from the author's own harness; one independent buyer in 180 days, who spent 2% of its x402 budget there, so price isn't the blocker; one paid render that added nothing over a plain GET. In a 90-day x402 market of 1,851 payments and 129 buyer wallets (test traffic removed), RenderGate is 0.11% of payments; 9 wallets buy from several services and are the ranked prospects. Five paid renders, verified on-chain, labelled as Day91's own. Prospects are wallets, not contacts; outreach stays manual.
+Findings on RenderGate: 97.5% of historical payments came from the author's own harness; one independent buyer in 180 days, who spent 2% of its x402 budget there, so price isn't the blocker; one paid render that added nothing over a plain GET. In a 90-day x402 market of 1,904 payments and 129 buyer wallets (test traffic removed), RenderGate is 0.11% of payments; 9 wallets buy from several services and are the ranked prospects. All payments after the cutoff are Day91's own, verified on-chain. Prospects are wallets, not contacts; outreach stays manual.
 
 **Links:**
 
 - Repository (MIT): https://github.com/CristobalWeb3/day91
 - Funnel page (live from Horizon): https://cristobalweb3.github.io/day91/
 - Report for the RenderGate author: https://github.com/CristobalWeb3/day91/blob/main/reasoning/rendergate-gtm.md
-- Video pitch (≤ 3 min): _to be added_
+- Video pitch (≤ 3 min): https://youtu.be/pcEAPKgzaTQ
+- Report posted to the RenderGate author: https://github.com/tantk/rendergate/issues/2
